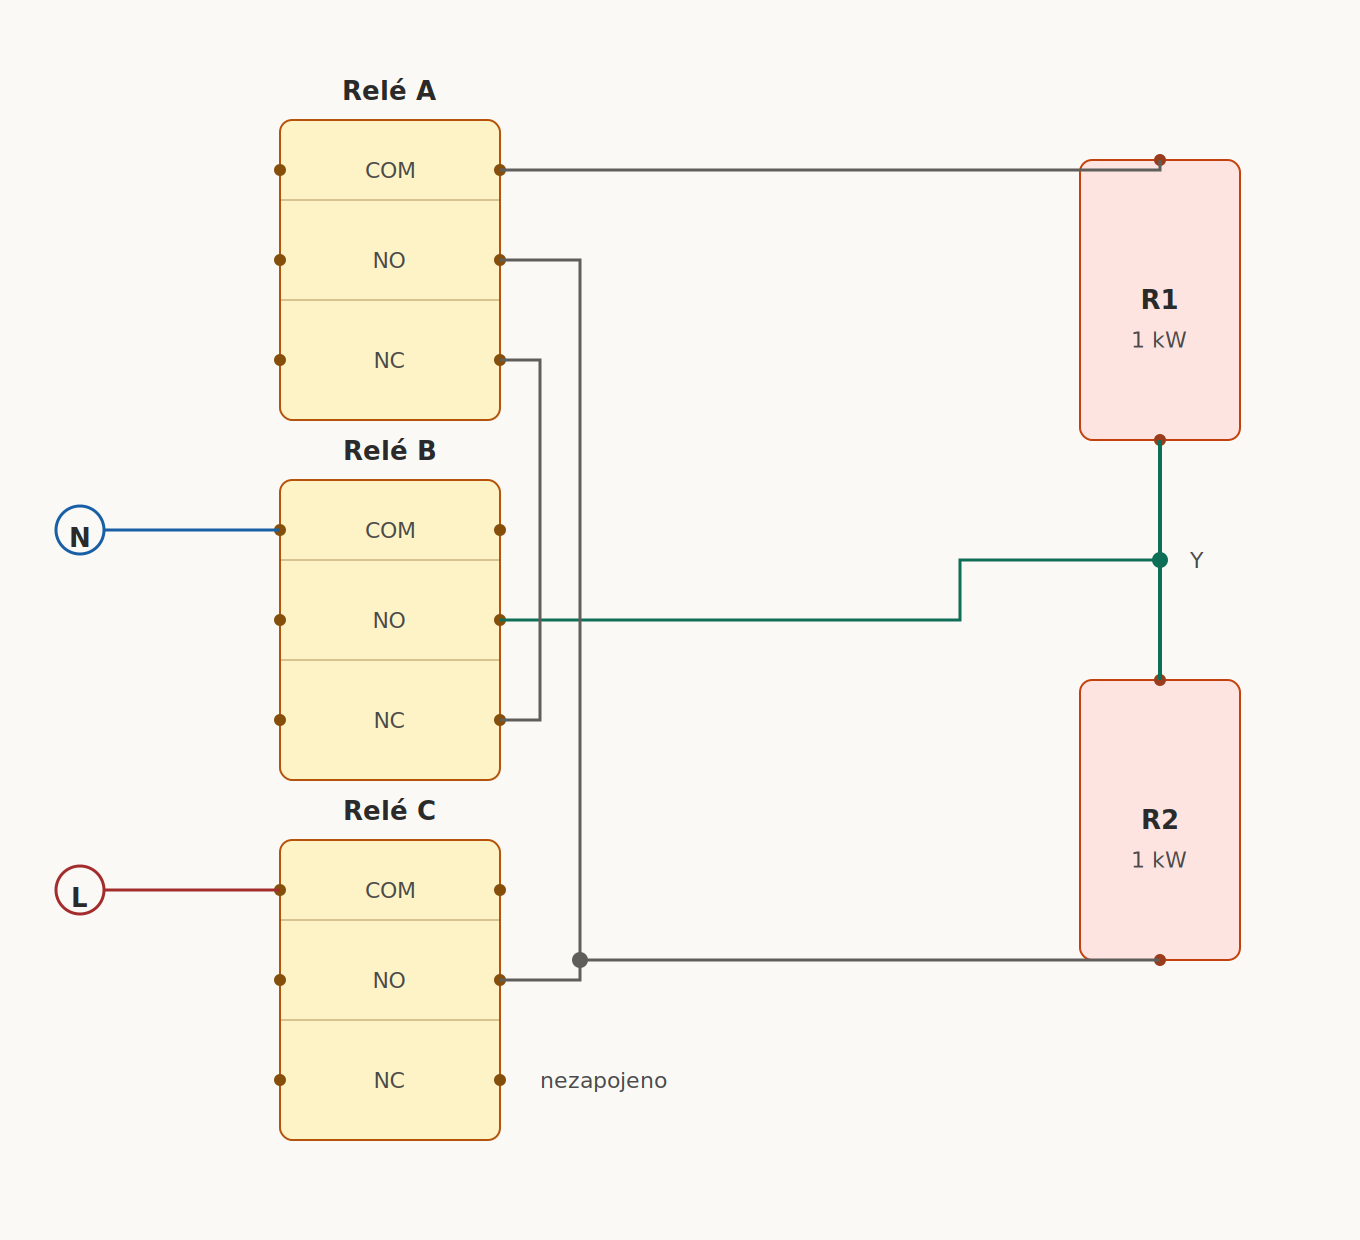
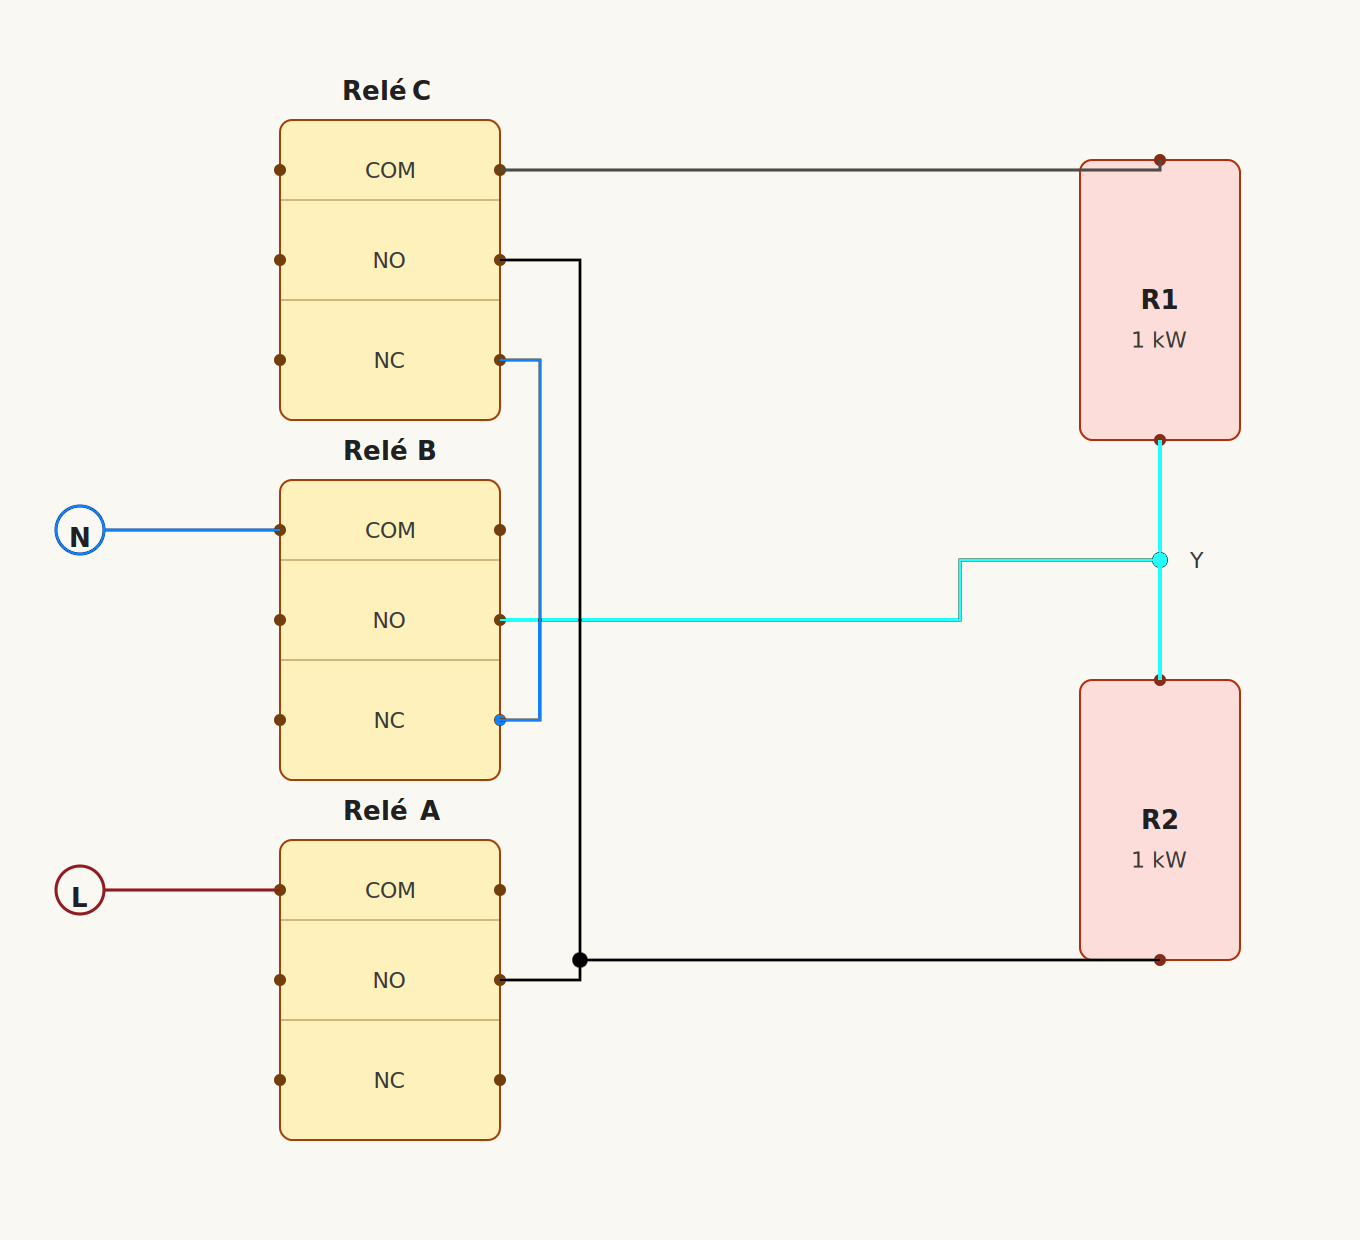
reverse A/C roles in boiler relay control

diff --git a/include/config.h b/include/config.h
@@ -17,11 +17,11 @@
 //           BOILER_ON_PIN   GPIO33 |  8 || 27 | GPIO19  LCD_D4
 //     RELAY_MOBILE_CHARGER  GPIO25 |  9 || 28 | GPIO18  LCD_D5
 //        LCD_BACKLIGHT_PIN  GPIO26 | 10 || 29 | GPIO5   LCD_D6 (boot)
-//          RELAY_BOILER_C   GPIO27 | 11 || 30 | GPIO17  INVERTER_TX_PIN
+//          RELAY_BOILER_A   GPIO27 | 11 || 30 | GPIO17  INVERTER_TX_PIN
 //          RELAY_BOILER_B   GPIO14 | 12 || 31 | GPIO16  INVERTER_RX_PIN
 //                   (boot)  GPIO12 | 13 || 32 | GPIO4   BTN_UP_TOUCH
 //                              GND | 14 || 33 | GPIO0   (boot)
-//          RELAY_BOILER_A   GPIO13 | 15 || 34 | GPIO2   (boot)
+//          RELAY_BOILER_C   GPIO13 | 15 || 34 | GPIO2   (boot)
 //                    (SPI)  GPIO9  | 16 || 35 | GPIO15  BTN_DOWN_TOUCH (boot)
 //                    (SPI)  GPIO10 | 17 || 36 | GPIO8   (SPI)
 //                    (SPI)  GPIO11 | 18 || 37 | GPIO7   (SPI)
@@ -54,9 +54,9 @@
 // --- Relay outputs ---
 // Boiler element control: see doc/heater_relay_control_spec.md and
 // doc/boiler_relay_schema.png for the SPDT wiring of A, B, C.
-#define RELAY_BOILER_A            13
+#define RELAY_BOILER_A            27
 #define RELAY_BOILER_B            14
-#define RELAY_BOILER_C            27
+#define RELAY_BOILER_C            13
 #define RELAY_MOBILE_CHARGER 25
 
 // --- Inputs ---

diff --git a/include/relay.h b/include/relay.h
@@ -8,18 +8,18 @@
 //                       state = 0 = relay de-energized = COM↔NC.
 //
 // Wiring (see doc/heater_relay_control_spec.md and doc/boiler_relay_schema.png):
-//   L → C.COM,  N → B.COM,  A.COM → R1.top
+//   L → A.COM,  N → B.COM,  C.COM → R1.top
 //   R1.bottom = R2.top  (node Y);  B.NO → Y
-//   A.NO = C.NO = R2.bottom (node X)
-//   A.NC = B.NC (node Z);  C.NC unused
+//   C.NO = A.NO = R2.bottom (node X)
+//   C.NC = B.NC (node Z);  A.NC unused
 //
 // Canonical states (A, B, C):
 //   OFF      (0, 0, 0)  – 0 W
-//   500 W    (0, 0, 1)  – R1 + R2 in series
-//   1000 W   (0, 1, 1)  – only R2
+//   500 W    (1, 0, 0)  – R1 + R2 in series
+//   1000 W   (1, 1, 0)  – only R2
 //   2000 W   (1, 1, 1)  – R1 || R2
 //
-// Safety: toggling A while (B==0 && C==1) shorts L–N through A's
+// Safety: toggling C while (B==0 && A==1) shorts L–N through C's
 // transition arc. The state machine therefore moves only along the
 // linear chain OFF ↔ 500 W ↔ 1000 W ↔ 2000 W, one relay per step,
 // with a settling delay between steps.

diff --git a/src/relay.cpp b/src/relay.cpp
@@ -4,8 +4,8 @@
 // Index = power rank along the safe chain.
 static constexpr uint8_t STATE_BITS[4] = {
   0b000,  // OFF      (A=0, B=0, C=0)
-  0b100,  // 500 W    (A=0, B=0, C=1)
-  0b110,  // 1000 W   (A=0, B=1, C=1)
+  0b001,  // 500 W    (A=1, B=0, C=0)
+  0b011,  // 1000 W   (A=1, B=1, C=0)
   0b111,  // 2000 W   (A=1, B=1, C=1)
 };
 

diff --git a/doc/heater_relay_control_spec.md b/doc/heater_relay_control_spec.md
@@ -16,23 +16,23 @@ When relay is de-energized (state = 0): `COM` connects to `NC`.
 
 | From         | To                                  |
 |--------------|-------------------------------------|
-| `L` (mains)  | `C.COM`                             |
+| `L` (mains)  | `A.COM`                             |
 | `N` (mains)  | `B.COM`                             |
-| `A.COM`      | `R1.top`                            |
+| `C.COM`      | `R1.top`                            |
 | `R1.bottom`  | `R2.top` (direct wire, node `Y`)    |
 | `B.NO`       | node `Y` (between R1 and R2)        |
-| `A.NO`       | node `X` (= `C.NO` = `R2.bottom`)   |
-| `C.NO`       | node `X`                            |
+| `C.NO`       | node `X` (= `A.NO` = `R2.bottom`)   |
+| `A.NO`       | node `X`                            |
 | `R2.bottom`  | node `X`                            |
-| `A.NC`       | `B.NC` (node `Z`)                   |
+| `C.NC`       | `B.NC` (node `Z`)                   |
 | `B.NC`       | node `Z`                            |
-| `C.NC`       | unused (leave disconnected)         |
+| `A.NC`       | unused (leave disconnected)         |
 
 ### Nodes summary
 
-- **X** = `A.NO` + `C.NO` + `R2.bottom`
+- **X** = `C.NO` + `A.NO` + `R2.bottom`
 - **Y** = `B.NO` + `R1.bottom` + `R2.top`
-- **Z** = `A.NC` + `B.NC`
+- **Z** = `C.NC` + `B.NC`
 
 ## State table
 
@@ -40,13 +40,13 @@ State is encoded as `(A, B, C)`. Power dissipated by R1 + R2 in watts.
 
 | A | B | C | Power   | Active path                                          |
 |---|---|---|---------|------------------------------------------------------|
-| 0 | 0 | 0 | 0 W     | L disconnected (C.NO open)                           |
-| 0 | 0 | 1 | 500 W   | L → C.NO → R2 → Y → R1 → A.COM → A.NC → B.NC → N (R1+R2 in **series**) |
+| 0 | 0 | 0 | 0 W     | L disconnected (A.NO open)                           |
+| 1 | 0 | 0 | 500 W   | L → A.NO → R2 → Y → R1 → C.COM → C.NC → B.NC → N (R1+R2 in **series**) |
 | 0 | 1 | 0 | 0 W     | L disconnected                                       |
-| 0 | 1 | 1 | 1000 W  | L → C.NO → R2 → Y → B.NO → N (only R2 active)        |
-| 1 | 0 | 0 | 0 W     | L disconnected                                       |
+| 1 | 1 | 0 | 1000 W  | L → A.NO → R2 → Y → B.NO → N (only R2 active)        |
+| 0 | 0 | 1 | 0 W     | L disconnected                                       |
 | 1 | 0 | 1 | 0 W     | L on both ends of nothing useful (N isolated at Z)   |
-| 1 | 1 | 0 | 0 W     | L disconnected                                       |
+| 0 | 1 | 1 | 0 W     | L disconnected                                       |
 | 1 | 1 | 1 | 2000 W  | R1 and R2 both directly across L–N (**parallel**)    |
 
 ### Canonical states
@@ -54,59 +54,59 @@ State is encoded as `(A, B, C)`. Power dissipated by R1 + R2 in watts.
 | Power     | A | B | C |
 |-----------|---|---|---|
 | OFF       | 0 | 0 | 0 |
-| 0.5 kW    | 0 | 0 | 1 |
-| 1 kW      | 0 | 1 | 1 |
+| 0.5 kW    | 1 | 0 | 0 |
+| 1 kW      | 1 | 1 | 0 |
 | 2 kW      | 1 | 1 | 1 |
 
 ## ⚠ Critical safety constraint: short-circuit risk
 
 There is exactly one dangerous condition during transitions:
 
-> **Switching relay A while `B == 0` AND `C == 1` causes an L–N short circuit
-> through relay A's contact arc.**
+> **Switching relay C while `B == 0` AND `A == 1` causes an L–N short circuit
+> through relay C's contact arc.**
 
-Mechanism: during A's transition, `A.COM` is briefly bridged between `A.NO` and `A.NC`
-via the moving contact / arc. With `C == 1`, `A.NO` (= node X) is at potential L.
-With `B == 0`, `A.NC` (= node Z) is at potential N (via B.NC → B.COM = N).
-Result: L–N short across A's contacts → high fault current, contact welding,
+Mechanism: during C's transition, `C.COM` is briefly bridged between `C.NO` and `C.NC`
+via the moving contact / arc. With `A == 1`, `C.NO` (= node X) is at potential L.
+With `B == 0`, `C.NC` (= node Z) is at potential N (via B.NC → B.COM = N).
+Result: L–N short across C's contacts → high fault current, contact welding,
 arc damage, possible fire.
 
 ### Safe-transition rule
 
-**Before toggling A, ensure `B == 1` OR `C == 0`.**
+**Before toggling C, ensure `B == 1` OR `A == 0`.**
 
-Equivalent formulation: A may only change state when at least one of these holds:
-- `C == 0` (mains L is disconnected at C, no path can short)
+Equivalent formulation: C may only change state when at least one of these holds:
+- `A == 0` (mains L is disconnected at A, no path can short)
 - `B == 1` (N is routed to node Y via B.NO, not to Z via B.NC)
 
 ### Other transitions (all safe)
 
 - **Toggling B** (any A, C): no L–N short possible.
-- **Toggling C** (any A, B): C has no NC connection, so no transition arc creates a short.
+- **Toggling A** (any B, C): A has no NC connection, so no transition arc creates a short.
 
 ## Recommended state-transition graph
 
 Use only these edges between canonical states. Each edge represents toggling **one** relay.
 
 ```
-OFF (0,0,0) ──[C: 0→1]──> 0.5 kW (0,0,1) ──[B: 0→1]──> 1 kW (0,1,1) ──[A: 0→1]──> 2 kW (1,1,1)
+OFF (0,0,0) ──[A: 0→1]──> 0.5 kW (1,0,0) ──[B: 0→1]──> 1 kW (1,1,0) ──[C: 0→1]──> 2 kW (1,1,1)
   ▲                            ▲                            ▲                            │
   │                            │                            │                            │
-  └──[C: 1→0]──────────────────┴──[B: 1→0]──────────────────┴──[A: 1→0]─────────────────┘
+  └──[A: 1→0]──────────────────┴──[B: 1→0]──────────────────┴──[C: 1→0]─────────────────┘
 ```
 
-**Forbidden direct transitions** (would require simultaneous toggle of A and B,
-or pass through the dangerous A-toggle condition):
+**Forbidden direct transitions** (would require simultaneous toggle of C and B,
+or pass through the dangerous C-toggle condition):
 
 - `0.5 kW ↔ 2 kW` directly → always go via 1 kW
-- `OFF → 1 kW` directly → go via 0.5 kW (only toggles C, then B; both safe)
+- `OFF → 1 kW` directly → go via 0.5 kW (only toggles A, then B; both safe)
 - `OFF → 2 kW` directly → go via 0.5 kW → 1 kW → 2 kW
 
 ### Going to OFF
 
-Always set `C = 0` first, then optionally reset A and B. With `C = 0` no current
-flows regardless of A and B states, so resetting A while B = 0 is safe (the
-dangerous condition requires `C = 1`).
+Always set `A = 0` first, then optionally reset C and B. With `A = 0` no current
+flows regardless of C and B states, so resetting C while B = 0 is safe (the
+dangerous condition requires `A = 1`).
 
 ## Implementation notes
 
@@ -121,8 +121,8 @@ conservative **delay of at least 30 ms** between consecutive toggles.
 ```python
 class HeaterController:
     OFF      = (0, 0, 0)
-    P_500W   = (0, 0, 1)
-    P_1000W  = (0, 1, 1)
+    P_500W   = (1, 0, 0)
+    P_1000W  = (1, 1, 0)
     P_2000W  = (1, 1, 1)
 
     # Adjacency list of safe single-relay transitions
